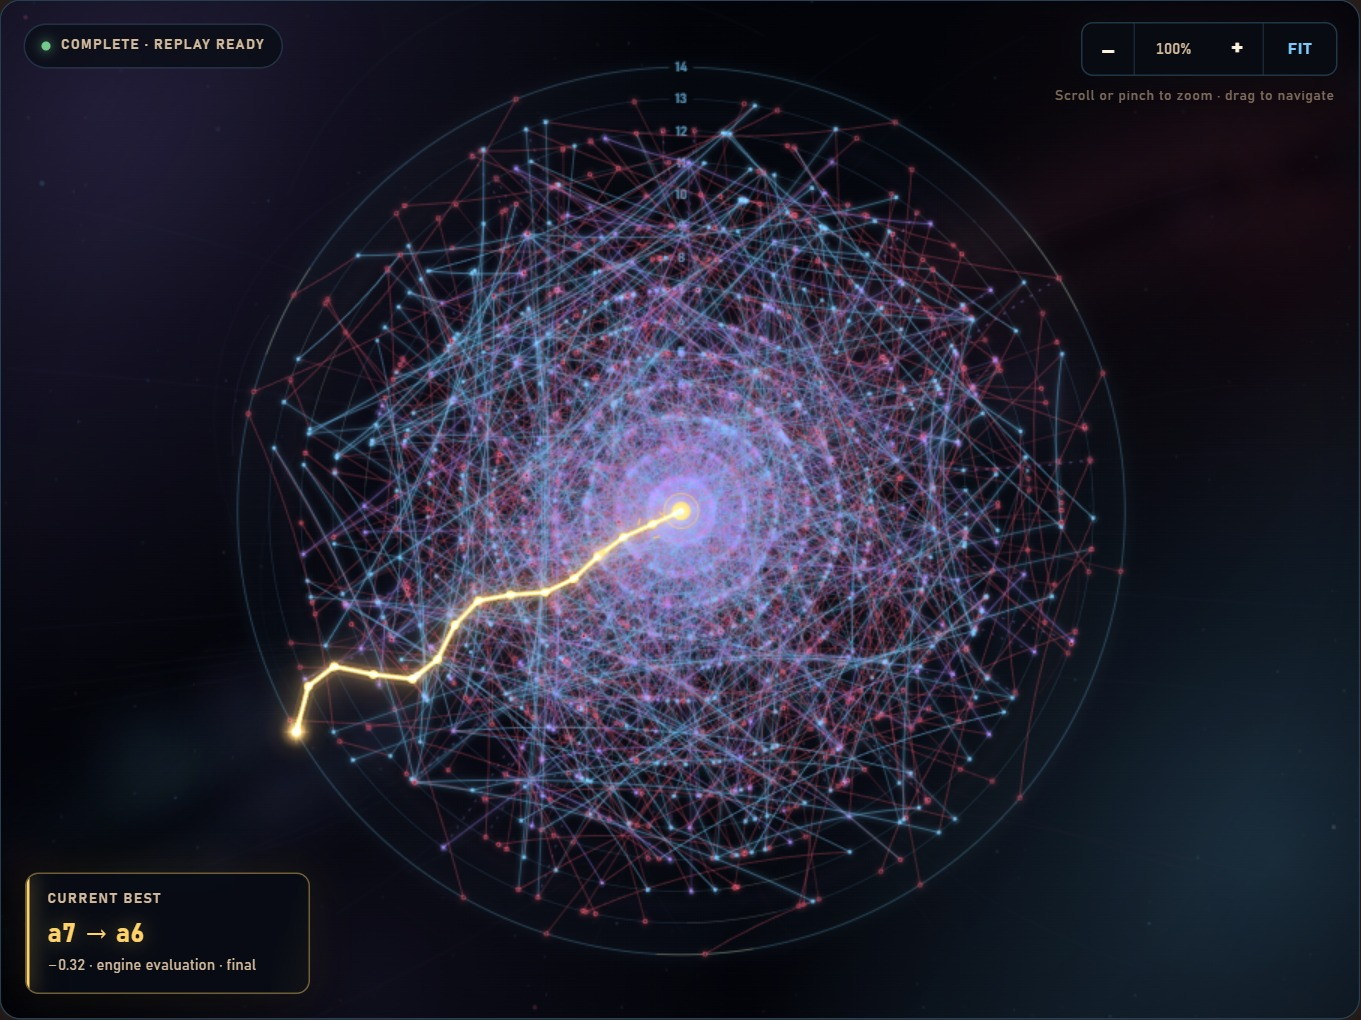
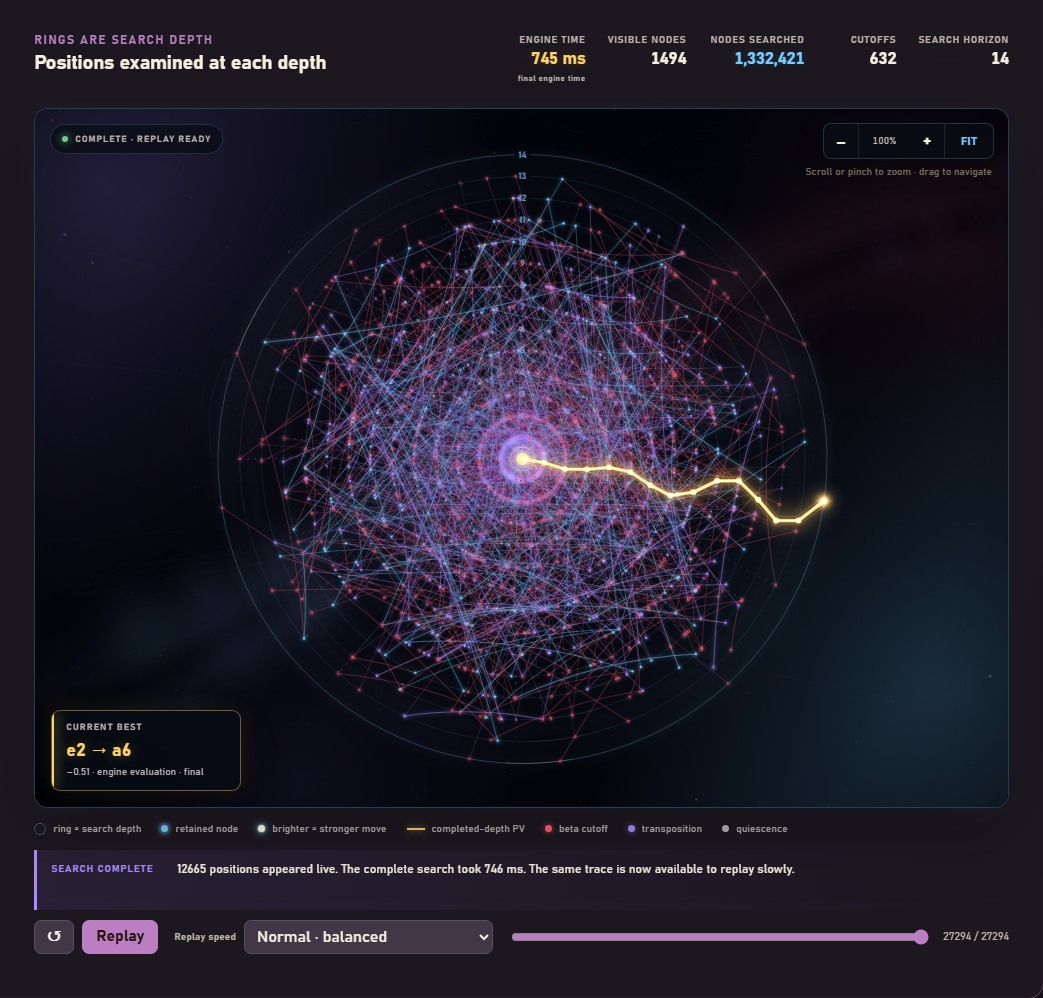
web: recapture the README stills in Classic Wood

diff --git a/web/frontend/index.html b/web/frontend/index.html
@@ -35,7 +35,7 @@
     <title>Sgurr | A home-grown chess engine from the Scottish hills</title>
     <meta name="description" content="Play Sgurr in your browser, analyse positions, and inspect its C++ search and Gen8 NNUE evaluation.">
     <meta name="color-scheme" content="dark">
-    <meta name="theme-color" content="#0c0f15">
+    <meta name="theme-color" content="#251a16">
     <link rel="canonical" href="https://sgurr-chess-engine.onrender.com/">
 
     <!-- Social cards use the public URL so link previews can fetch them. -->

diff --git a/docs/THIRD_PARTY_ASSETS.md b/docs/THIRD_PARTY_ASSETS.md
@@ -47,6 +47,14 @@ The PNG is retained as the high-resolution source; browsers receive the WebP
 background and JPEG social card. No bundled font is used by the frontend; its
 CSS uses system font stacks.
 
+## README Captures
+
+| Sgurr file | Provenance | Status |
+| --- | --- | --- |
+| `docs/assets/search-network.gif` | Recorded from Sgurr's Search Lab. | `PROJECT-ASSET` |
+| `docs/assets/search-network.jpg` | Depth-14 Kiwipete trace captured from Sgurr's Search Lab. | `PROJECT-ASSET` |
+| `docs/assets/nnue-evaluation.gif` | Recorded from Sgurr's Evaluation Lab using the shipped Gen8 network. | `PROJECT-ASSET` |
+
 ## Project-Created Audio
 
 The following ordinary cues are synthesized at runtime in
